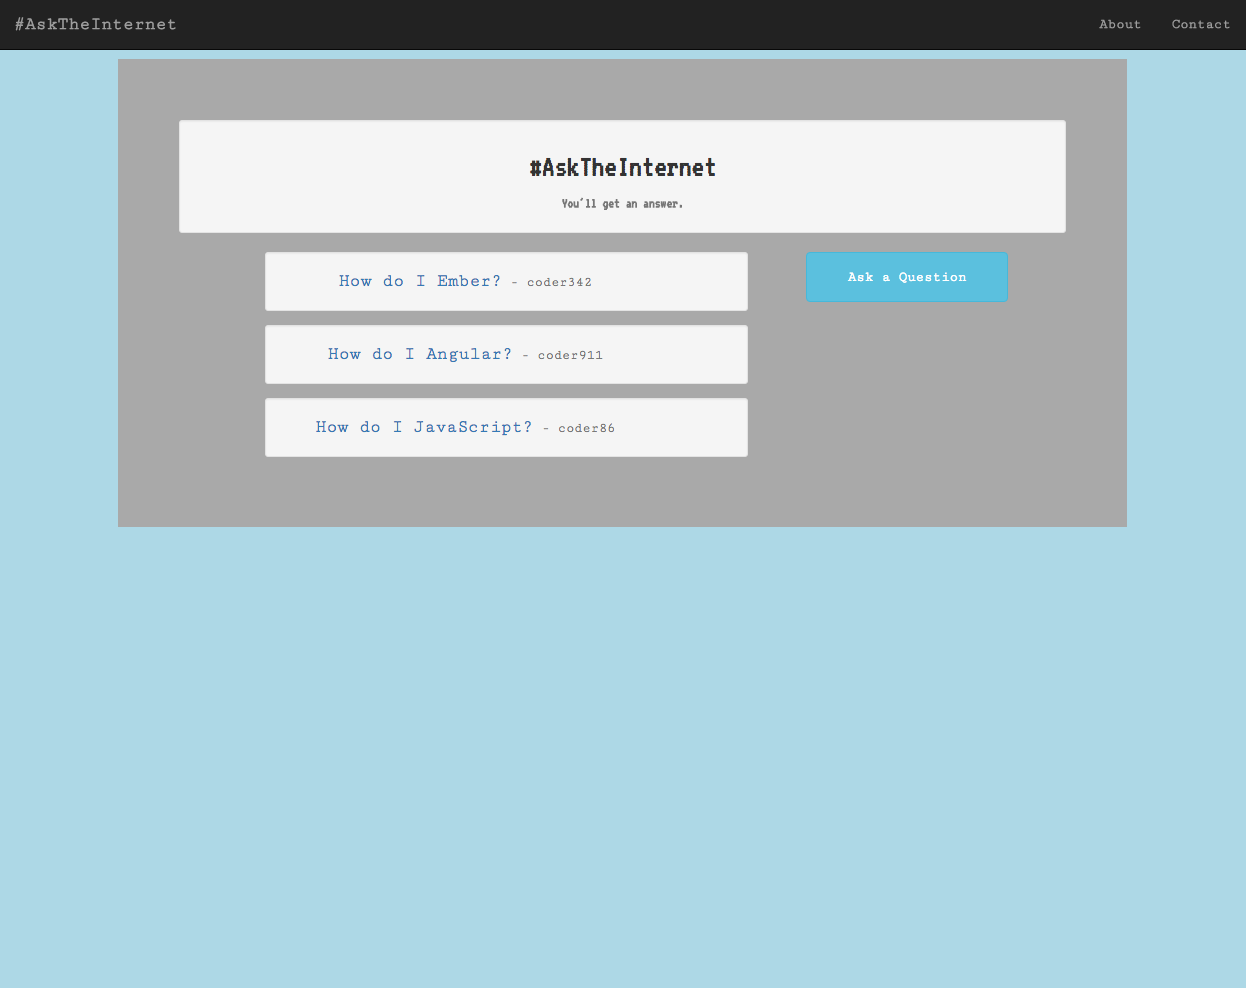
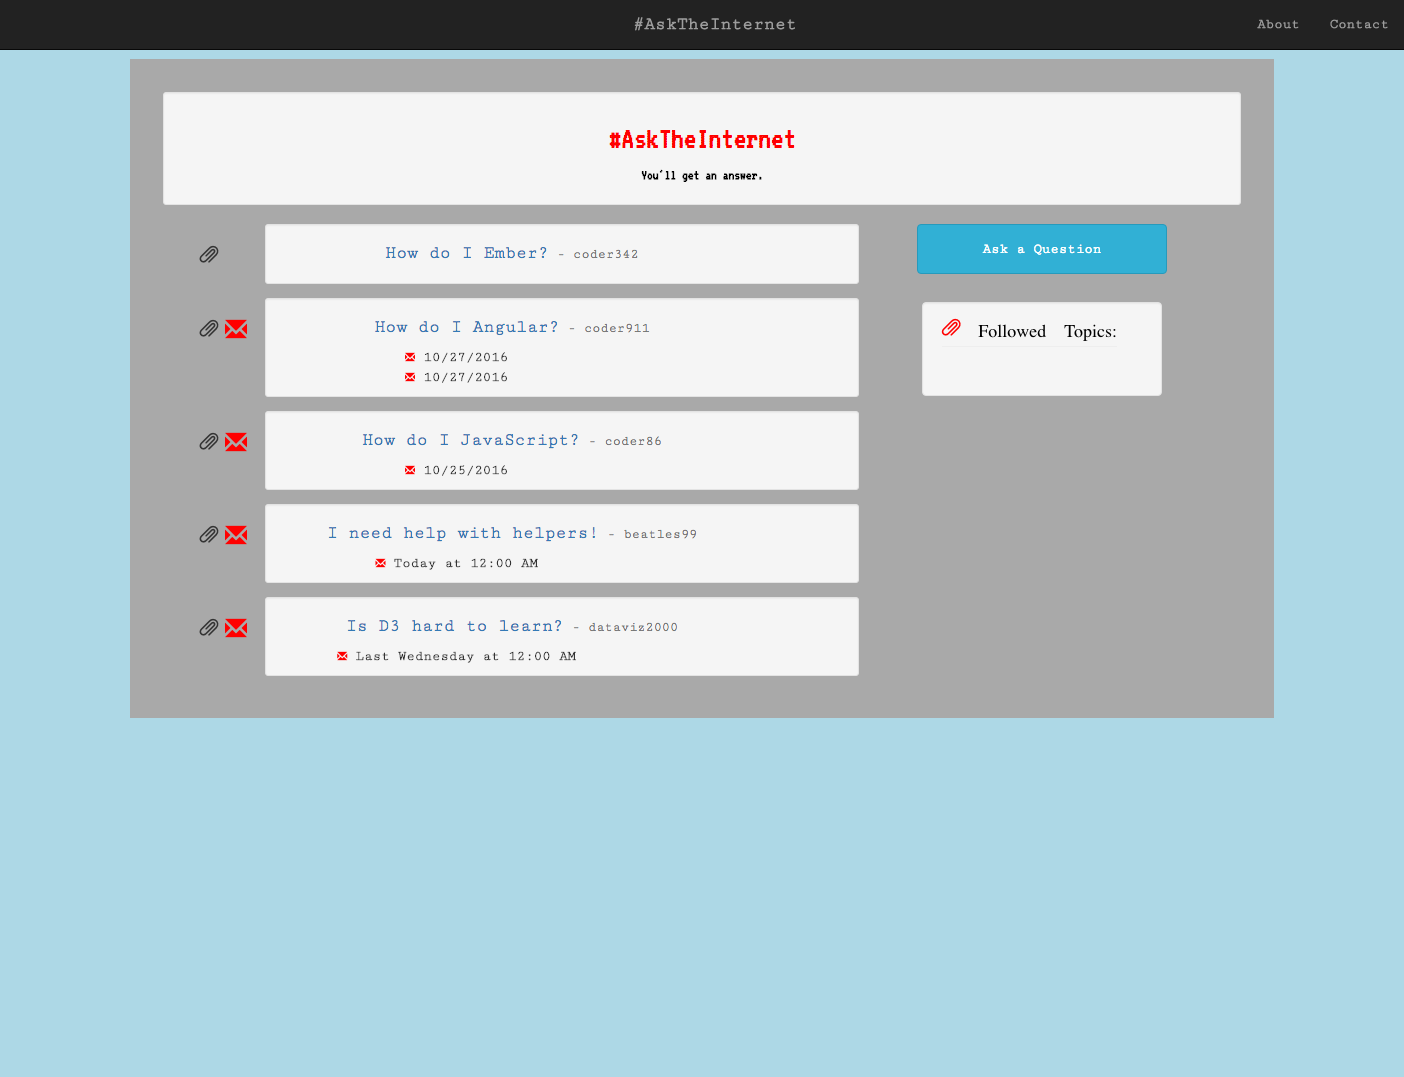
update readme

Changed region(s): [[0.0, 0.0, 1.0, 0.668]]

diff --git a/README.md b/README.md
@@ -1,6 +1,6 @@
 * # _Ask The internet_
 
-#### _10-29-2016_
+#### _11-04-2016_
 ![project screenshot](/resources/img/screenshot.png)
 #### By _**Caleb Paul**_
 
@@ -41,6 +41,8 @@ _None known_
     - Site displays list of questions.
     - Site displays the username of the user that posted the question.
     - Site displays a button which allows user to add a new question.
+    - Site displays a paperclip icon, to add questions to a 'followed topics' list.
+    - Site displays an envelope icon on questions that have received answers.
 
 * When user clicks a question:
     - These details about the question can be viewed:
@@ -53,7 +55,7 @@ _None known_
       * Answer text.
       * Answer author.
       * Answer's date posted.
-      
+
     - The question can be updated, or deleted.
     - The answer's/replies can be or deleted.
 
